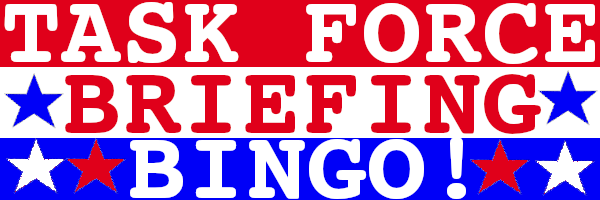
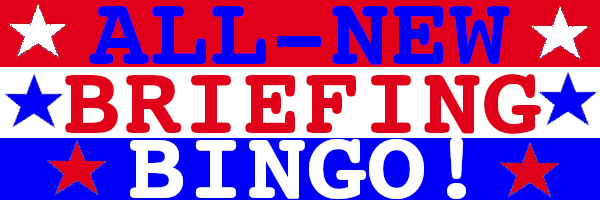
minor updates

diff --git a/src/components/IndexPage.tsx b/src/components/IndexPage.tsx
@@ -9,7 +9,7 @@ export default class IndexPage extends React.Component<any, any> {
         return(
             <div className="row justify-content-center" id="index-page">
                 <div className="col-12 index-info">
-                STEP 1: Tune into a live briefing. No live briefing? <a href="https://www.youtube.com/results?search_query=corona+task+force+briefing" target="_blank" rel="noopener noreferrer">Search on Youtube</a>
+                STEP 1: Tune into a live briefing or round table. Nothing live? <a href="https://www.youtube.com/results?search_query=white+house+roundtable+news+briefing" target="_blank" rel="noopener noreferrer">Search Youtube</a>
                 <br/>
                 STEP 2: Invite your friends and family or plan a Briefing Bingo HAPPYHOUR!
                 <br/>

diff --git a/public/index.html b/public/index.html
@@ -7,7 +7,7 @@
     <meta name="theme-color" content="#000000" />
     <meta
       name="description"
-      content="A fun way to enjoy the EXCITING daily Task Force Briefing!!"
+      content="Play the BINGO GAME sweeping the U.S.A!"
     />
     <link rel="apple-touch-icon" href="%PUBLIC_URL%/logo192.png" />
     <!--
@@ -36,7 +36,7 @@
     <noscript>You need to enable JavaScript to run this app.</noscript>
 
     <div style="display: none">
-        <img src="/images/facebook_cover.png" alt="IWon" />
+        <img src="/images/iWon.png" alt="IWon" />
     </div>
     <div id="root"></div>
     <!--

diff --git a/src/index.css b/src/index.css
@@ -28,7 +28,7 @@ code {
 .square {
   position: relative;
   display: block;
-  width: 17vw;
+  width: 18vw;
   height: 75px;
   float: left;
   padding: 2px;

diff --git a/README.md b/README.md
@@ -1,44 +1,1 @@
-This project was bootstrapped with [Create React App](https://github.com/facebook/create-react-app).
-
-## Available Scripts
-
-In the project directory, you can run:
-
-### `npm start`
-
-Runs the app in the development mode.<br />
-Open [http://localhost:3000](http://localhost:3000) to view it in the browser.
-
-The page will reload if you make edits.<br />
-You will also see any lint errors in the console.
-
-### `npm test`
-
-Launches the test runner in the interactive watch mode.<br />
-See the section about [running tests](https://facebook.github.io/create-react-app/docs/running-tests) for more information.
-
-### `npm run build`
-
-Builds the app for production to the `build` folder.<br />
-It correctly bundles React in production mode and optimizes the build for the best performance.
-
-The build is minified and the filenames include the hashes.<br />
-Your app is ready to be deployed!
-
-See the section about [deployment](https://facebook.github.io/create-react-app/docs/deployment) for more information.
-
-### `npm run eject`
-
-**Note: this is a one-way operation. Once you `eject`, you can’t go back!**
-
-If you aren’t satisfied with the build tool and configuration choices, you can `eject` at any time. This command will remove the single build dependency from your project.
-
-Instead, it will copy all the configuration files and the transitive dependencies (webpack, Babel, ESLint, etc) right into your project so you have full control over them. All of the commands except `eject` will still work, but they will point to the copied scripts so you can tweak them. At this point you’re on your own.
-
-You don’t have to ever use `eject`. The curated feature set is suitable for small and middle deployments, and you shouldn’t feel obligated to use this feature. However we understand that this tool wouldn’t be useful if you couldn’t customize it when you are ready for it.
-
-## Learn More
-
-You can learn more in the [Create React App documentation](https://facebook.github.io/create-react-app/docs/getting-started).
-
-To learn React, check out the [React documentation](https://reactjs.org/).
+Frontend for www.briefingbingo.com
